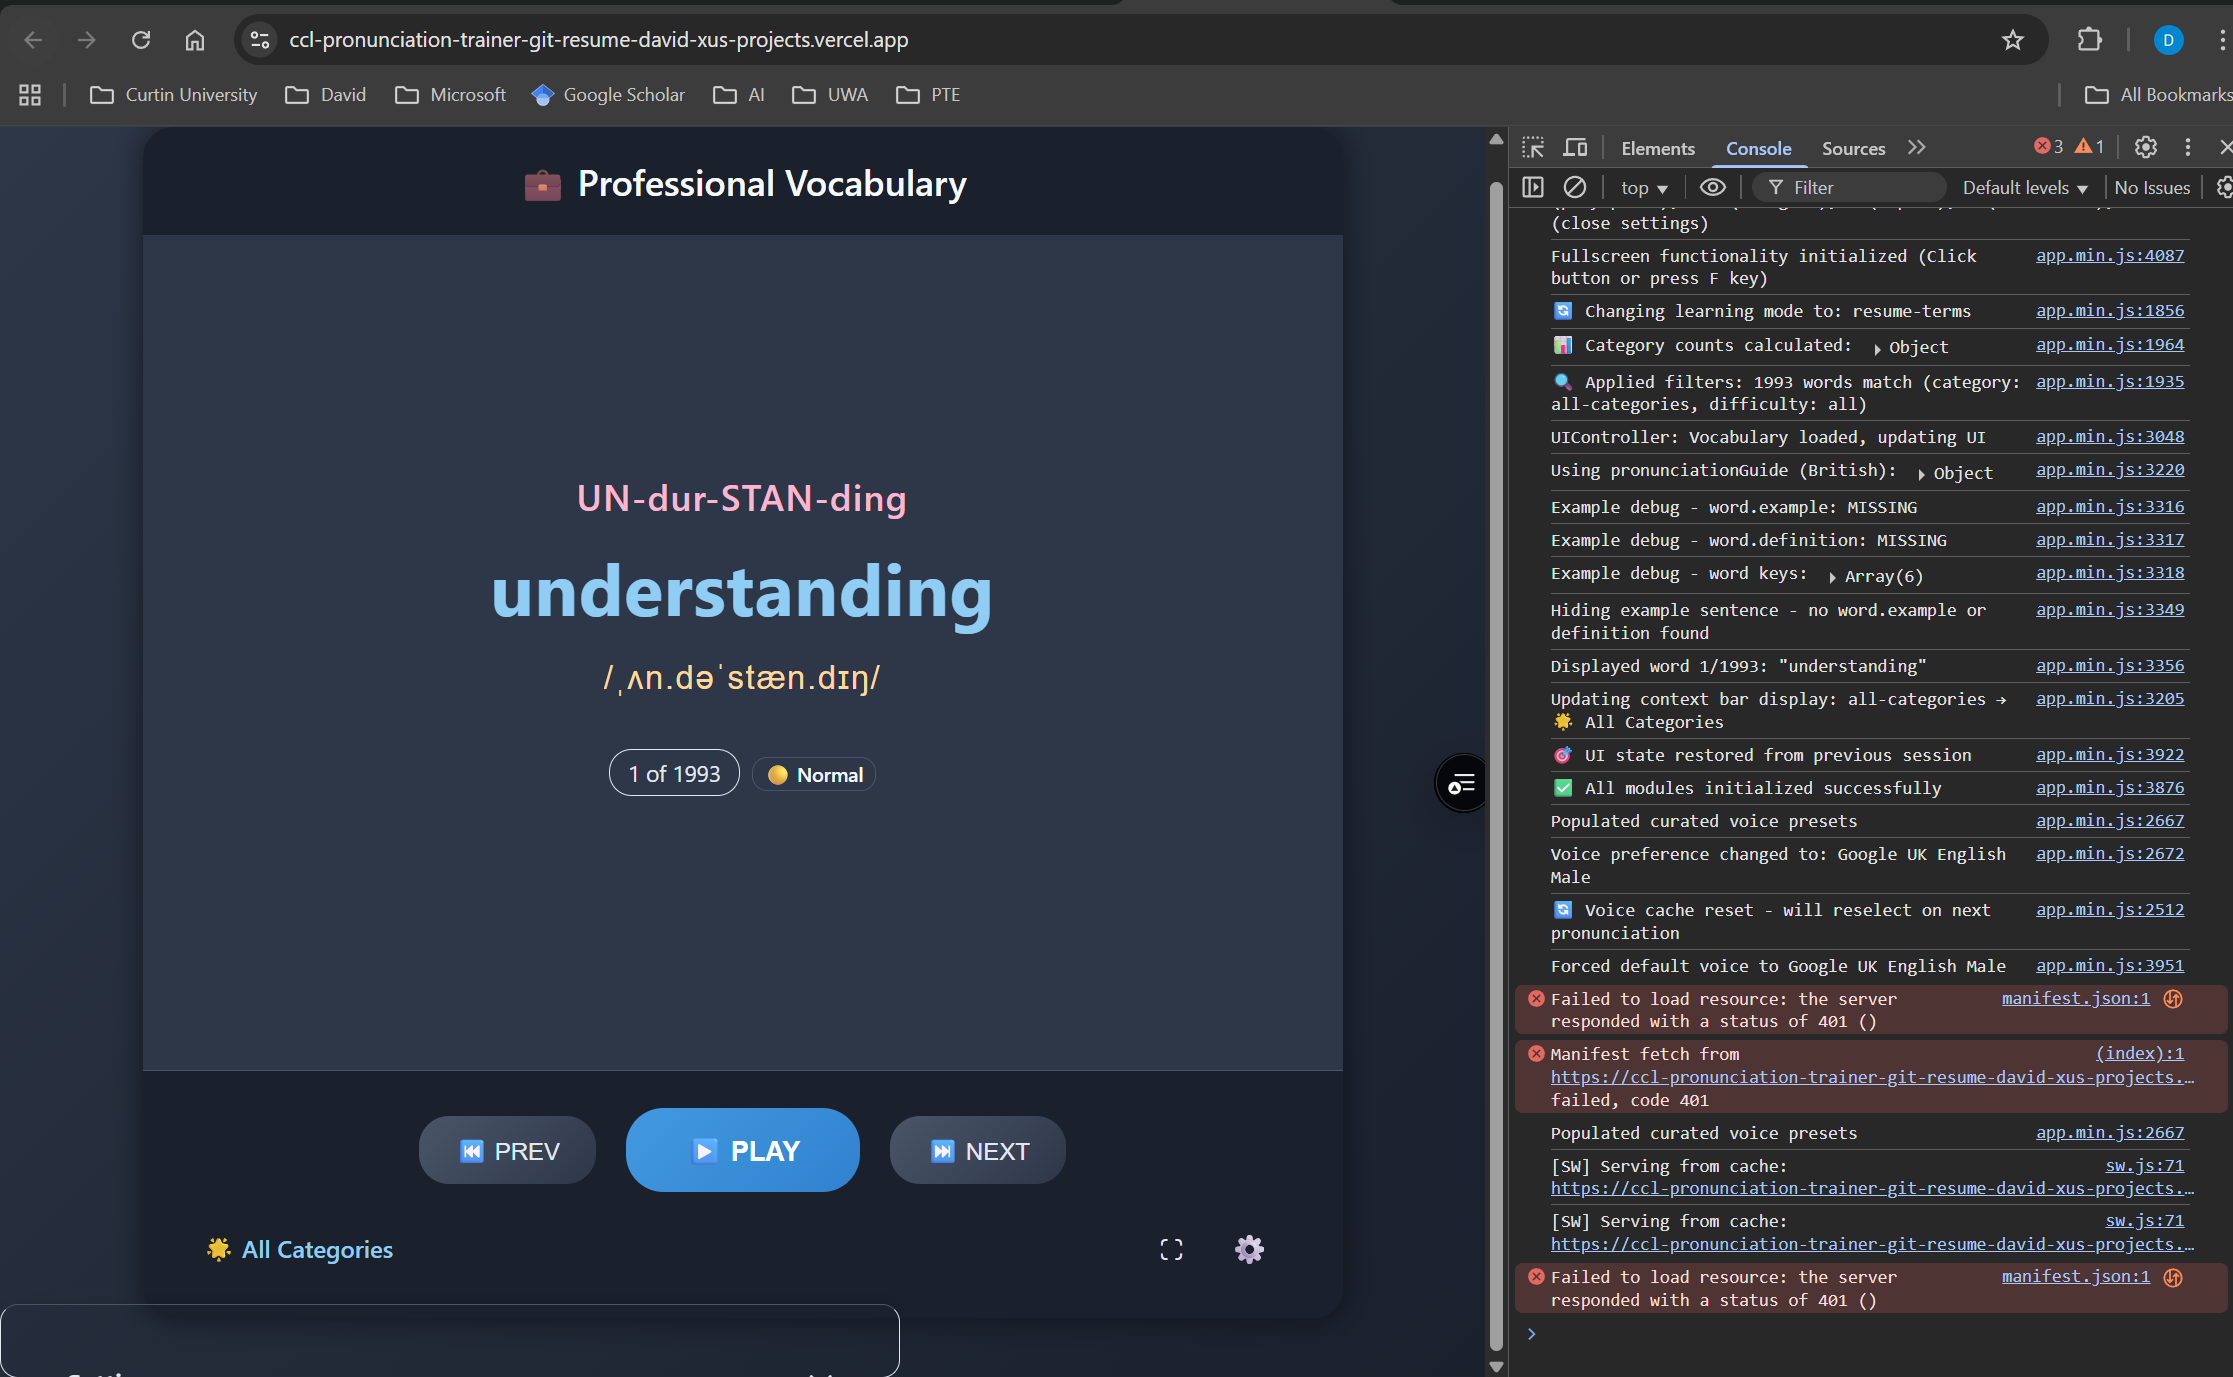
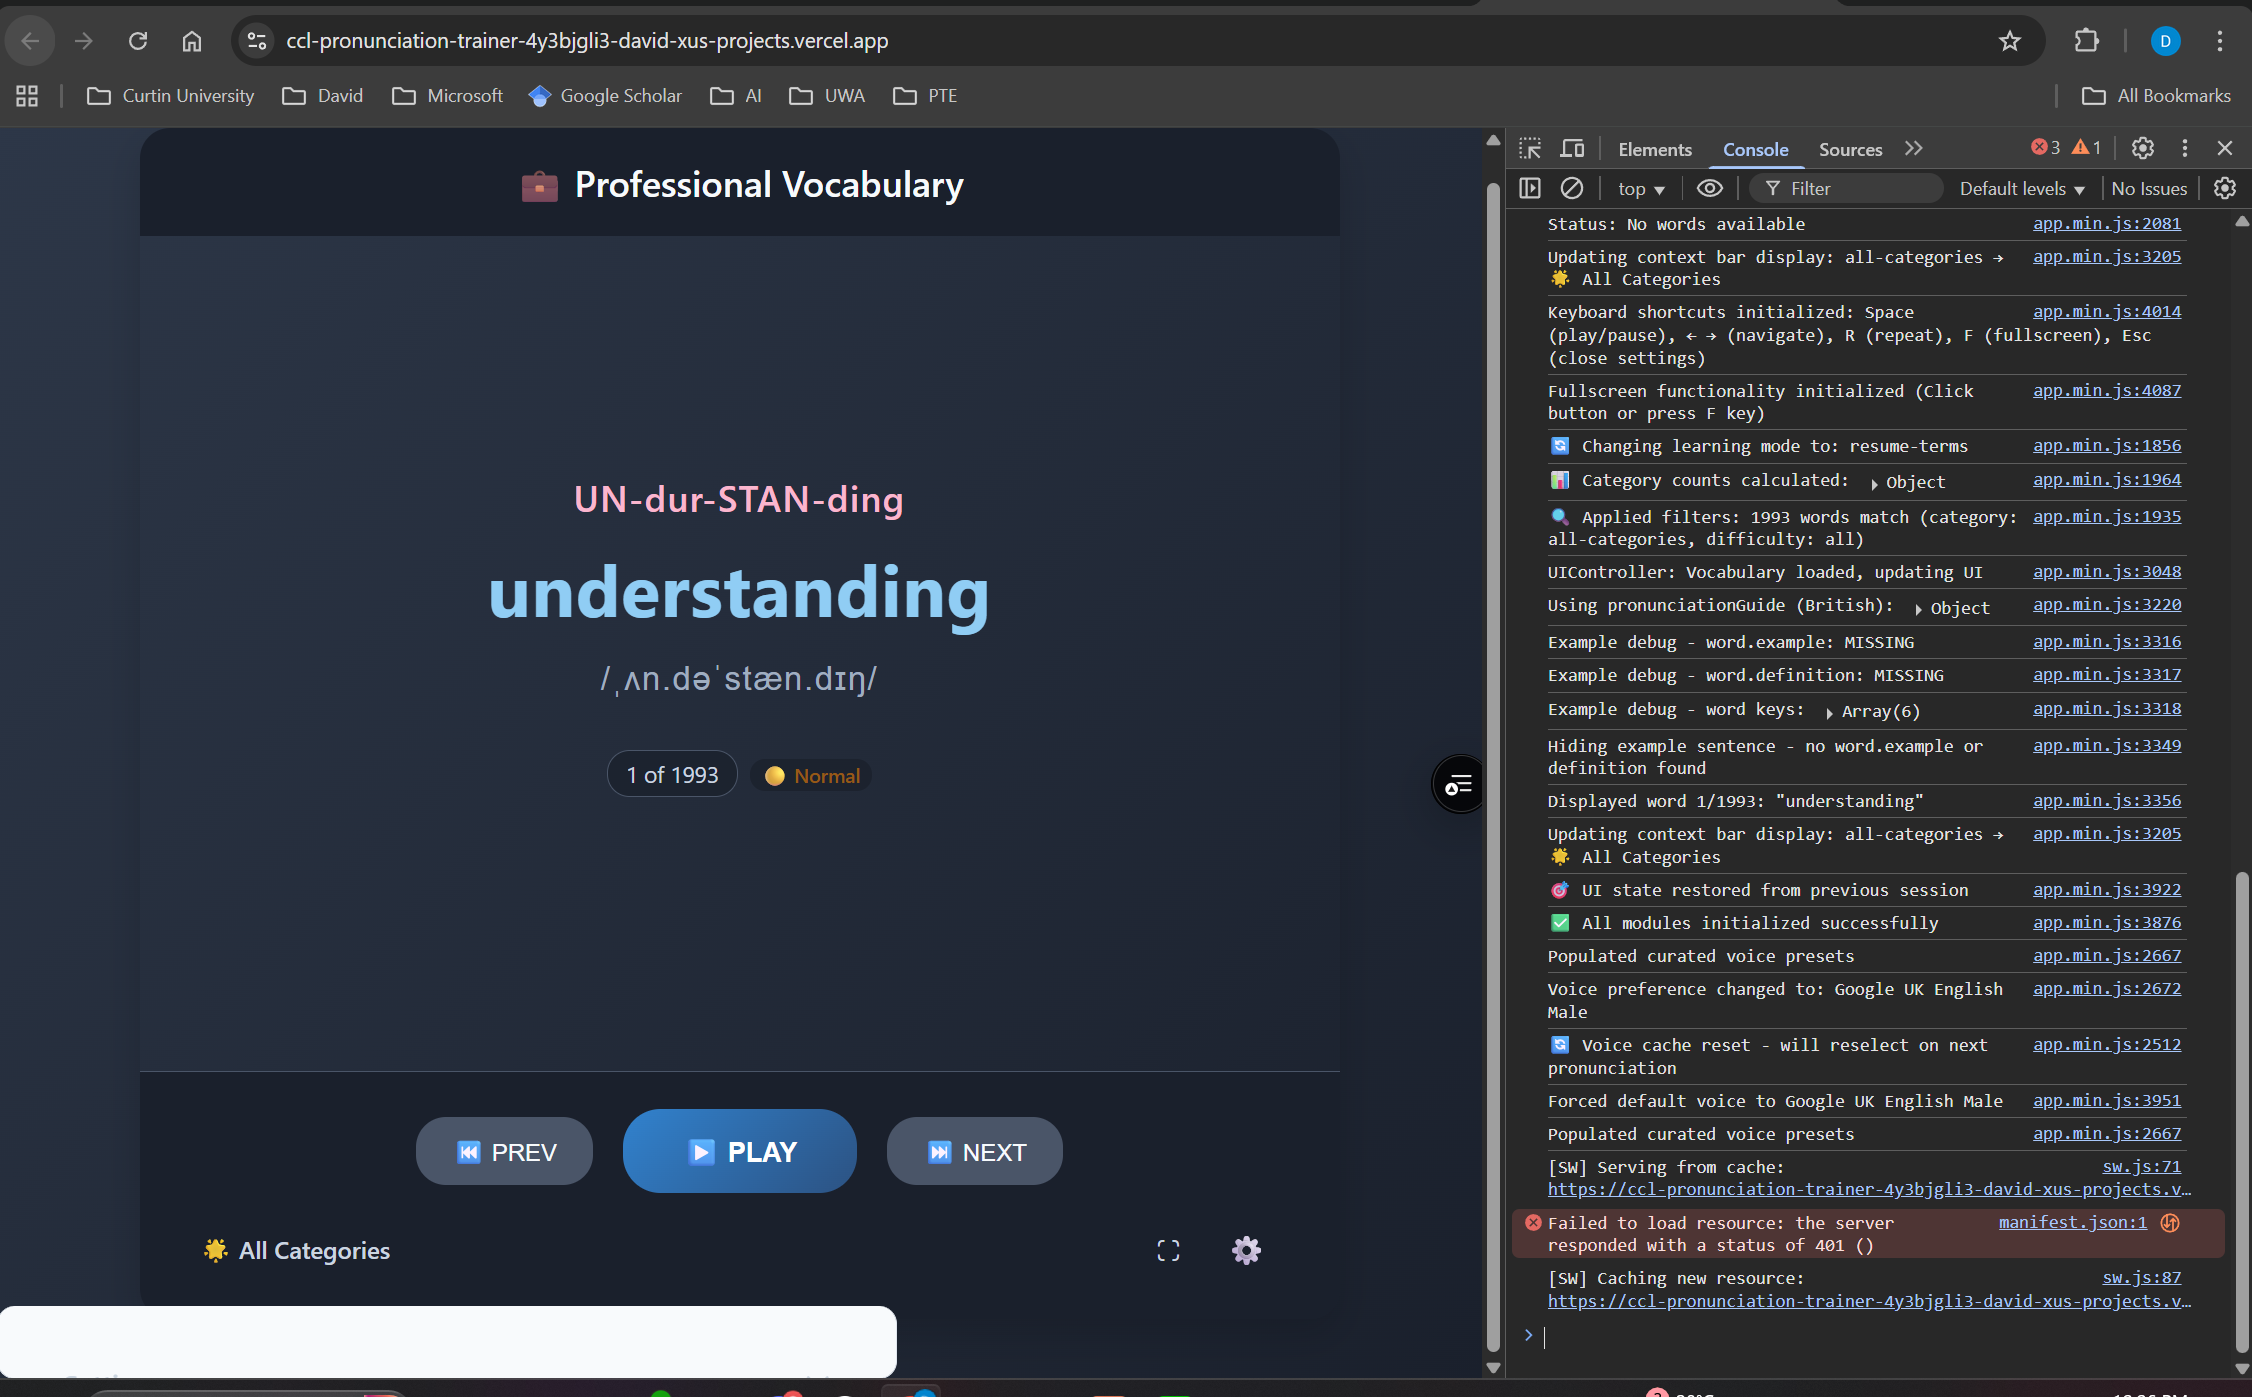
Remove all background rectangles - show gradient everywhere
## Fixed:
- `.app-header`: background transparent (was var(--bg-header))
- `.control-area`: background transparent (was var(--bg-secondary))
- `.control-area`: removed border-top

## Result:
✅ Beautiful gradient visible throughout entire app
✅ No white/dark rectangles blocking the gradient
✅ Clean, minimal design with full gradient background
✅ Header, learning area, and controls all transparent

🤖 Generated with [Claude Code](https://claude.com/claude-code)

diff --git a/src/css/style.css b/src/css/style.css
@@ -105,7 +105,7 @@ body {
 
 /* Header - Minimal design, hidden on small mobile */
 .app-header {
-    background: var(--bg-header);
+    background: transparent;
     color: var(--text-light);
     text-align: center;
     padding: 15px 20px;
@@ -235,9 +235,9 @@ body {
 /* Control Area (20% space, essential actions only) */
 .control-area {
     grid-row: 3;
-    background: var(--bg-secondary);
+    background: transparent;
     padding: 20px;
-    border-top: 1px solid var(--border-light);
+    border-top: none;
     min-height: 120px;
     display: flex;
     flex-direction: column;
